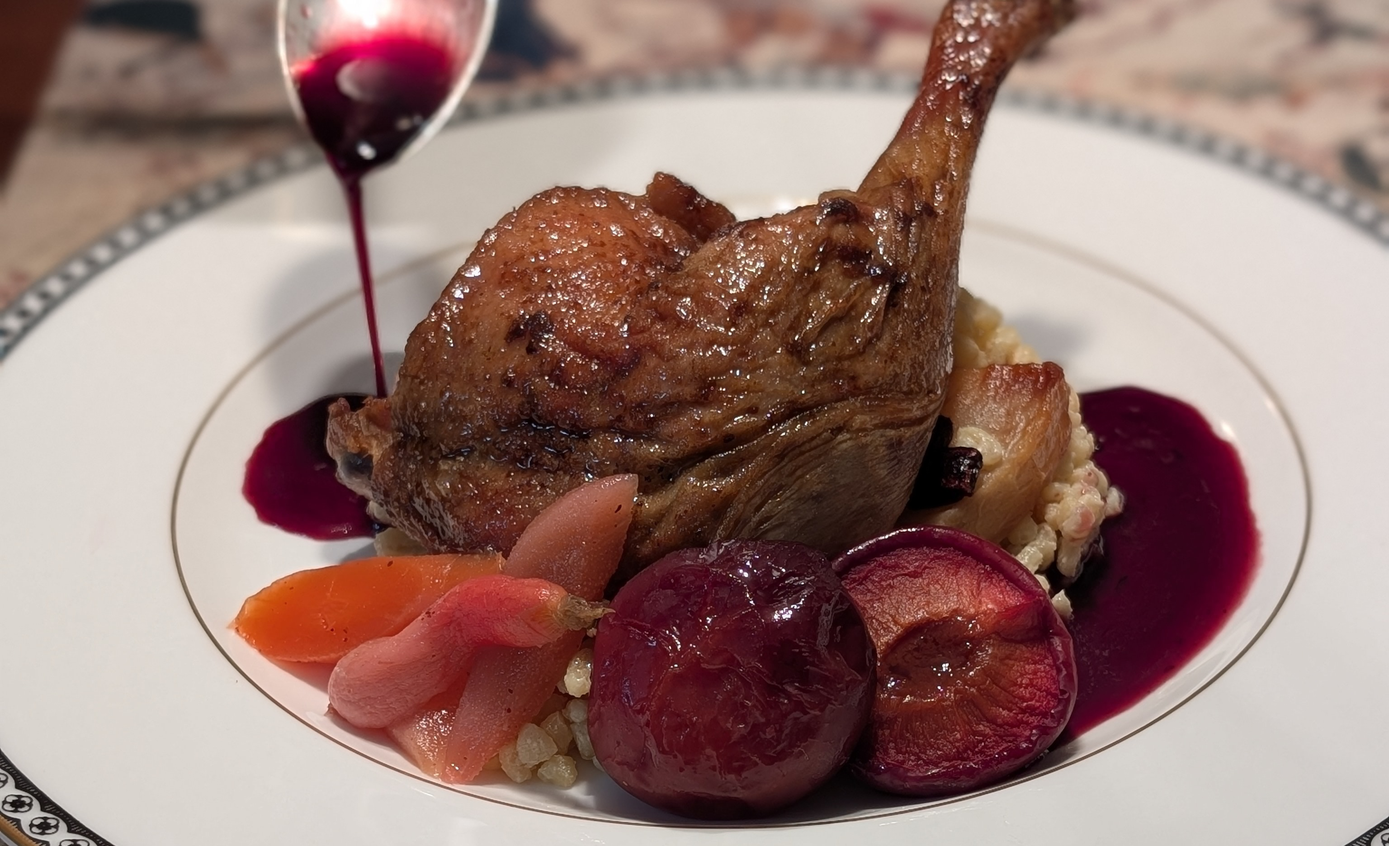
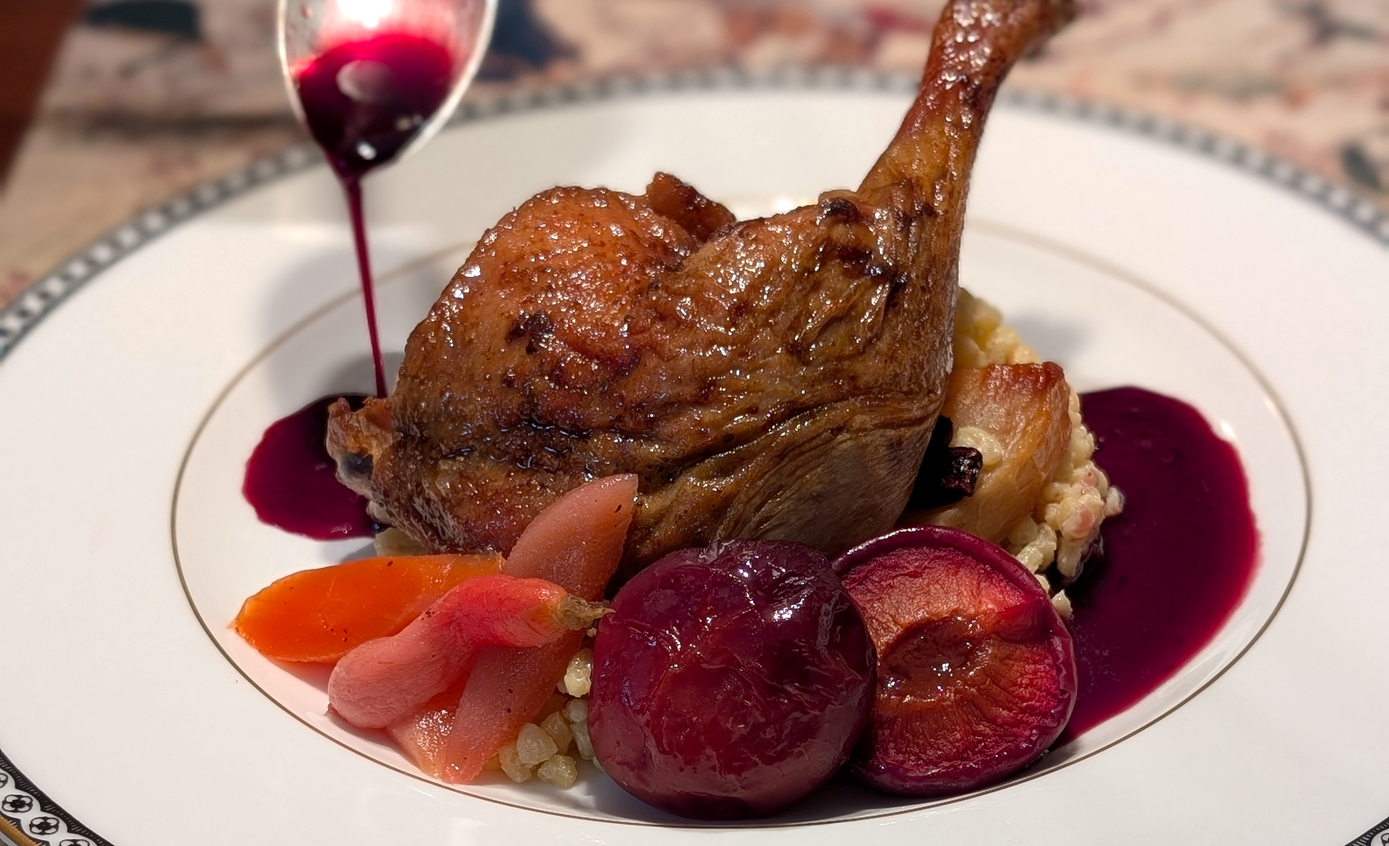
changed text and photos

diff --git a/index.html b/index.html
@@ -49,26 +49,29 @@
         <div class="container">
             <div class="section-header text-center reveal">
                 <span class="section-subtitle">What We Do</span>
-                <h2>Historical Private Dining Reimagined</h2>
+                <h2>Private Dining, Reimagined</h2>
             </div>
             <div class="overview-grid">
                 <div class="overview-main reveal">
-                    <p class="lead">EPOCHURIAN provides deeply researched historical private dining in the comfort of your own home, tailored to any time and place in history.</p>
-                    <p>The food is phenomenal—lovingly crafted to balance rigorous historical authenticity with modern culinary excellence. But a feast is more than just exceptional dishes: you and your guests receive a full living-history experience.</p>
-                    <p>Throughout the evening, we talk you through the journey, sharing the fascinating stories, secret ingredients, cultural context, and culinary techniques behind every course.</p>
+                    <p>EPOCHURIAN provides deeply researched historical private dining in the comfort of your own home.</p>
+                    <p class="lead">"Everything I ate was new and I enjoyed every bite" - Ming banquet guest, North London</p>
+                    <p>Our aim is to take you on a culinary adventure, exposing you to great food of the past. We will introduce you to new flavours and dishes, through historical recipes, techniques, and ingredients. Each menu is carefully crafted to evoke the atmosphere and flavours of the period, whilst giving the fullest breadth of foods of the time.</p>
                 </div>
                 <div class="overview-features">
                     <div class="feature-card reveal">
-                        <h3>01 / Any Era in History</h3>
-                        <p>Choose any epoch, civilization, or family heritage—from ancient Mediterranean trade routes to imperial court banquets—or let us curate one of our celebrated favorite menus.</p>
+                        <h3>One</h3>
+                        <h3>Any Era in History</h3>
+                        <p>Choose any epoch, civilization, or family heritage, or let us offer one of our favourites.</p>
                     </div>
                     <div class="feature-card reveal">
-                        <h3>02 / Phenomenal Cuisine</h3>
-                        <p>Every dish is meticulously researched and expertly prepared using authentic historical methods, rare heirloom produce, and exquisite flavor balance.</p>
+                        <h3>Two </h3>
+                            <h3>Personalised Experience</h3>
+                        <p>We work to create an event tailored to your tastes and preferences, including dietary restrictions. This will include a pre-event consultation and site visit.</p>
                     </div>
                     <div class="feature-card reveal">
-                        <h3>03 / Immersive Narrative</h3>
-                        <p>We present each course with rich storytelling, bringing the history of your dining table to life for you and your guests.</p>
+                        <h3>Three </h3>
+                            <h3>Party Time</h3>
+                        <p>On the day of your event, we will be there in person, presenting each course with a little history to bring the period to life for you and your guests.</p>
                     </div>
                 </div>
             </div>
@@ -79,9 +82,9 @@
     <section id="feasts" class="scrollytelling-section">
         <div class="scrollytelling-sticky">
             <!-- Pinned Background Photo Stack -->
-            <div class="scrolly-bg active" style="background-image: url('79.Party ©Matthew Johnson Photographer.jpg');" data-index="0"></div>
+            <div class="scrolly-bg active" style="background-image: url('57.Party ©Matthew Johnson Photographer.jpg');" data-index="0"></div>
             <div class="scrolly-bg" style="background-image: url('PXL_20261005_165303553.RAW-01.MP.COVER.jpg');" data-index="1"></div>
-            <div class="scrolly-bg" style="background-image: url('22.Party ©Matthew Johnson Photographer.jpg');" data-index="2"></div>
+            <div class="scrolly-bg" style="background-image: url('IMG_7887.jpeg');" data-index="2"></div>
             <div class="scrolly-bg" style="background-image: url('russia.jpg');" data-index="3"></div>
             <div class="scrolly-bg" style="background-image: url('PXL_20261011_220745113.PORTRAIT.jpg');" data-index="4"></div>
 
@@ -119,7 +122,7 @@
                     <h2>The Aristocratic Dacha</h2>
                     <p class="scrolly-lead">Enter a world of leisure and opulence.</p><br>
                     <p>The nineteenth century saw Russian imperial dining reach its zenith, seamlessly blending native samovar culture and hearty estate traditions with the meticulous flair of French haute cuisine. Recreating the opulent elegance of aristocratic banquets, this menu pairs elevated Slavic classics with Francophone high-court favorites to celebrate a uniquely brilliant age of gastronomy.</p>
-                    <p class="chef-highlight">Chef's highlight — blinis with caviar</p>
+                    <p class="chef-highlight">Chef's highlight — blini with caviar</p>
                 </div>
 
                 <div class="scrolly-card" data-index="4">

diff --git a/styles.css b/styles.css
@@ -888,3 +888,4 @@ footer p {
         max-height: 400px;
     }
 }
+
